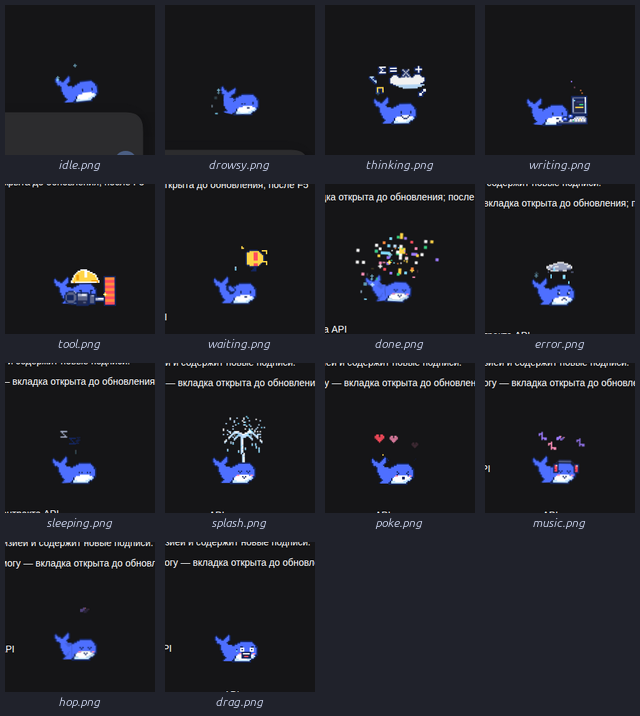
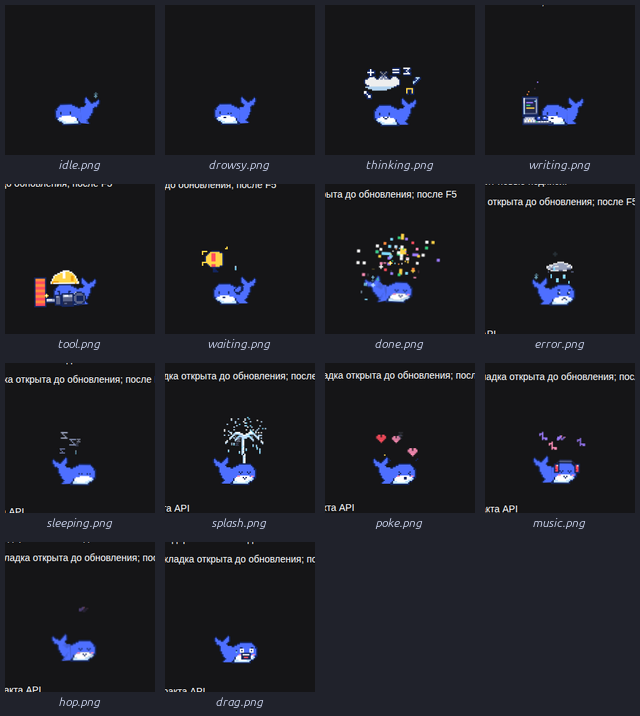
thinking: shorter smile arc

diff --git a/client.js b/client.js
@@ -616,7 +616,7 @@ const ART = {
     <g id="dw-face-drowsy" class="dw-alt dw-on-drowsy"><rect x="24" y="68" width="2" height="4" fill="#142660"/></g>
     <g id="dw-face-drag" class="dw-alt dw-on-drag"><rect x="22" y="64" width="4" height="2" fill="#142660"/><rect x="38" y="64" width="4" height="2" fill="#142660"/><rect x="22" y="66" width="6" height="6" fill="#FFFFFF"/><rect x="24" y="68" width="2" height="2" fill="#142660"/><rect x="36" y="66" width="6" height="6" fill="#FFFFFF"/><rect x="38" y="68" width="2" height="2" fill="#142660"/><rect x="46" y="68" width="2" height="4" fill="#7FDBFF"/><rect x="46" y="68" width="2" height="2" fill="#142660"/></g>
     <g id="dw-blush" class="dw-alt dw-on-done dw-on-music dw-on-splash dw-on-poke dw-on-hop dw-on-drag"><rect x="20" y="74" width="4" height="2" fill="#FF8FB8"/><rect x="40" y="74" width="4" height="2" fill="#FF8FB8"/></g>
-    <g id="dw-mouth-smile"><rect x="30" y="76" width="4" height="2" fill="#142660"/></g><g id="dw-mouth-drag-closed" class="dw-alt dw-on-drag"><rect x="28" y="76" width="10" height="2" fill="#142660"/></g><g id="dw-mouth-drag-open" class="dw-alt dw-on-drag"><rect x="26" y="72" width="14" height="10" fill="#142660"/><rect x="28" y="74" width="10" height="6" fill="#222A4E"/><rect x="28" y="74" width="10" height="2" fill="#FFFFFF"/><rect x="30" y="78" width="6" height="2" fill="#FF4D5E"/></g><g id="dw-mouth-think-closed" class="dw-alt dw-on-thinking"><rect x="26" y="74" width="2" height="2" fill="#142660"/><rect x="28" y="76" width="2" height="2" fill="#142660"/><rect x="30" y="78" width="2" height="2" fill="#142660"/><rect x="32" y="78" width="2" height="2" fill="#142660"/><rect x="34" y="78" width="2" height="2" fill="#142660"/><rect x="36" y="76" width="2" height="2" fill="#142660"/><rect x="38" y="74" width="2" height="2" fill="#142660"/></g><g id="dw-mouth-think-line" class="dw-alt dw-on-thinking"><rect x="30" y="76" width="6" height="2" fill="#142660"/></g><g id="dw-mouth-think-open" class="dw-alt dw-on-thinking"><rect x="30" y="74" width="6" height="4" fill="#142660"/><rect x="32" y="76" width="2" height="2" fill="#FF8FB8"/></g>
+    <g id="dw-mouth-smile"><rect x="30" y="76" width="4" height="2" fill="#142660"/></g><g id="dw-mouth-drag-closed" class="dw-alt dw-on-drag"><rect x="28" y="76" width="10" height="2" fill="#142660"/></g><g id="dw-mouth-drag-open" class="dw-alt dw-on-drag"><rect x="26" y="72" width="14" height="10" fill="#142660"/><rect x="28" y="74" width="10" height="6" fill="#222A4E"/><rect x="28" y="74" width="10" height="2" fill="#FFFFFF"/><rect x="30" y="78" width="6" height="2" fill="#FF4D5E"/></g><g id="dw-mouth-think-closed" class="dw-alt dw-on-thinking"><rect x="30" y="74" width="2" height="2" fill="#142660"/><rect x="32" y="76" width="2" height="2" fill="#142660"/><rect x="34" y="76" width="2" height="2" fill="#142660"/><rect x="36" y="74" width="2" height="2" fill="#142660"/></g><g id="dw-mouth-think-line" class="dw-alt dw-on-thinking"><rect x="30" y="76" width="6" height="2" fill="#142660"/></g><g id="dw-mouth-think-open" class="dw-alt dw-on-thinking"><rect x="30" y="74" width="6" height="4" fill="#142660"/><rect x="32" y="76" width="2" height="2" fill="#FF8FB8"/></g>
     <g id="dw-mouth-happy" class="dw-alt dw-on-done dw-on-music dw-on-splash dw-on-hop"><rect x="30" y="76" width="2" height="2" fill="#142660"/><rect x="32" y="78" width="2" height="2" fill="#142660"/><rect x="34" y="76" width="2" height="2" fill="#142660"/></g>
     <g id="dw-mouth-frown" class="dw-alt dw-on-error"><rect x="28" y="78" width="2" height="2" fill="#142660"/><rect x="30" y="76" width="4" height="2" fill="#142660"/><rect x="34" y="78" width="2" height="2" fill="#142660"/></g>
     <g id="dw-mouth-o" class="dw-alt dw-on-poke"><rect x="30" y="76" width="4" height="4" fill="#142660"/></g>

diff --git a/src/art.js b/src/art.js
@@ -606,7 +606,7 @@ const ART = {
     <g id="dw-face-drowsy" class="dw-alt dw-on-drowsy"><rect x="24" y="68" width="2" height="4" fill="#142660"/></g>
     <g id="dw-face-drag" class="dw-alt dw-on-drag"><rect x="22" y="64" width="4" height="2" fill="#142660"/><rect x="38" y="64" width="4" height="2" fill="#142660"/><rect x="22" y="66" width="6" height="6" fill="#FFFFFF"/><rect x="24" y="68" width="2" height="2" fill="#142660"/><rect x="36" y="66" width="6" height="6" fill="#FFFFFF"/><rect x="38" y="68" width="2" height="2" fill="#142660"/><rect x="46" y="68" width="2" height="4" fill="#7FDBFF"/><rect x="46" y="68" width="2" height="2" fill="#142660"/></g>
     <g id="dw-blush" class="dw-alt dw-on-done dw-on-music dw-on-splash dw-on-poke dw-on-hop dw-on-drag"><rect x="20" y="74" width="4" height="2" fill="#FF8FB8"/><rect x="40" y="74" width="4" height="2" fill="#FF8FB8"/></g>
-    <g id="dw-mouth-smile"><rect x="30" y="76" width="4" height="2" fill="#142660"/></g><g id="dw-mouth-drag-closed" class="dw-alt dw-on-drag"><rect x="28" y="76" width="10" height="2" fill="#142660"/></g><g id="dw-mouth-drag-open" class="dw-alt dw-on-drag"><rect x="26" y="72" width="14" height="10" fill="#142660"/><rect x="28" y="74" width="10" height="6" fill="#222A4E"/><rect x="28" y="74" width="10" height="2" fill="#FFFFFF"/><rect x="30" y="78" width="6" height="2" fill="#FF4D5E"/></g><g id="dw-mouth-think-closed" class="dw-alt dw-on-thinking"><rect x="26" y="74" width="2" height="2" fill="#142660"/><rect x="28" y="76" width="2" height="2" fill="#142660"/><rect x="30" y="78" width="2" height="2" fill="#142660"/><rect x="32" y="78" width="2" height="2" fill="#142660"/><rect x="34" y="78" width="2" height="2" fill="#142660"/><rect x="36" y="76" width="2" height="2" fill="#142660"/><rect x="38" y="74" width="2" height="2" fill="#142660"/></g><g id="dw-mouth-think-line" class="dw-alt dw-on-thinking"><rect x="30" y="76" width="6" height="2" fill="#142660"/></g><g id="dw-mouth-think-open" class="dw-alt dw-on-thinking"><rect x="30" y="74" width="6" height="4" fill="#142660"/><rect x="32" y="76" width="2" height="2" fill="#FF8FB8"/></g>
+    <g id="dw-mouth-smile"><rect x="30" y="76" width="4" height="2" fill="#142660"/></g><g id="dw-mouth-drag-closed" class="dw-alt dw-on-drag"><rect x="28" y="76" width="10" height="2" fill="#142660"/></g><g id="dw-mouth-drag-open" class="dw-alt dw-on-drag"><rect x="26" y="72" width="14" height="10" fill="#142660"/><rect x="28" y="74" width="10" height="6" fill="#222A4E"/><rect x="28" y="74" width="10" height="2" fill="#FFFFFF"/><rect x="30" y="78" width="6" height="2" fill="#FF4D5E"/></g><g id="dw-mouth-think-closed" class="dw-alt dw-on-thinking"><rect x="30" y="74" width="2" height="2" fill="#142660"/><rect x="32" y="76" width="2" height="2" fill="#142660"/><rect x="34" y="76" width="2" height="2" fill="#142660"/><rect x="36" y="74" width="2" height="2" fill="#142660"/></g><g id="dw-mouth-think-line" class="dw-alt dw-on-thinking"><rect x="30" y="76" width="6" height="2" fill="#142660"/></g><g id="dw-mouth-think-open" class="dw-alt dw-on-thinking"><rect x="30" y="74" width="6" height="4" fill="#142660"/><rect x="32" y="76" width="2" height="2" fill="#FF8FB8"/></g>
     <g id="dw-mouth-happy" class="dw-alt dw-on-done dw-on-music dw-on-splash dw-on-hop"><rect x="30" y="76" width="2" height="2" fill="#142660"/><rect x="32" y="78" width="2" height="2" fill="#142660"/><rect x="34" y="76" width="2" height="2" fill="#142660"/></g>
     <g id="dw-mouth-frown" class="dw-alt dw-on-error"><rect x="28" y="78" width="2" height="2" fill="#142660"/><rect x="30" y="76" width="4" height="2" fill="#142660"/><rect x="34" y="78" width="2" height="2" fill="#142660"/></g>
     <g id="dw-mouth-o" class="dw-alt dw-on-poke"><rect x="30" y="76" width="4" height="4" fill="#142660"/></g>
